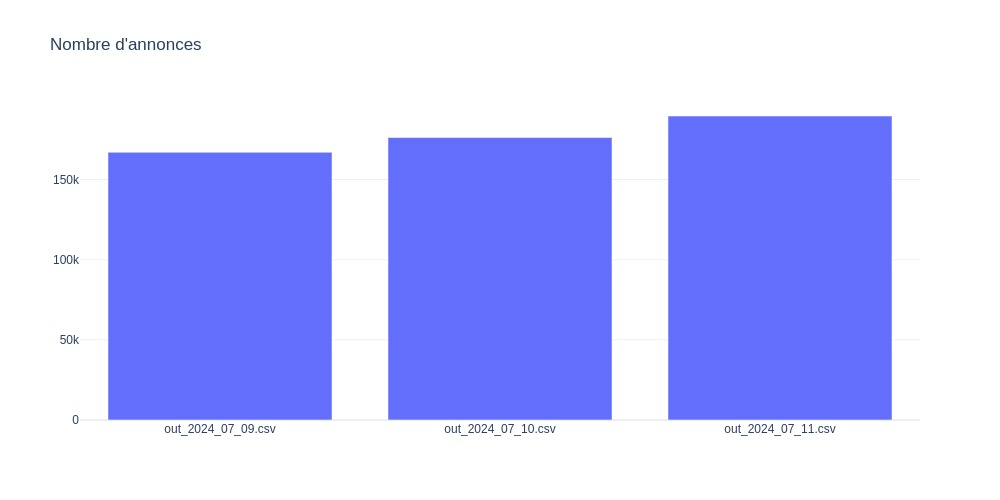
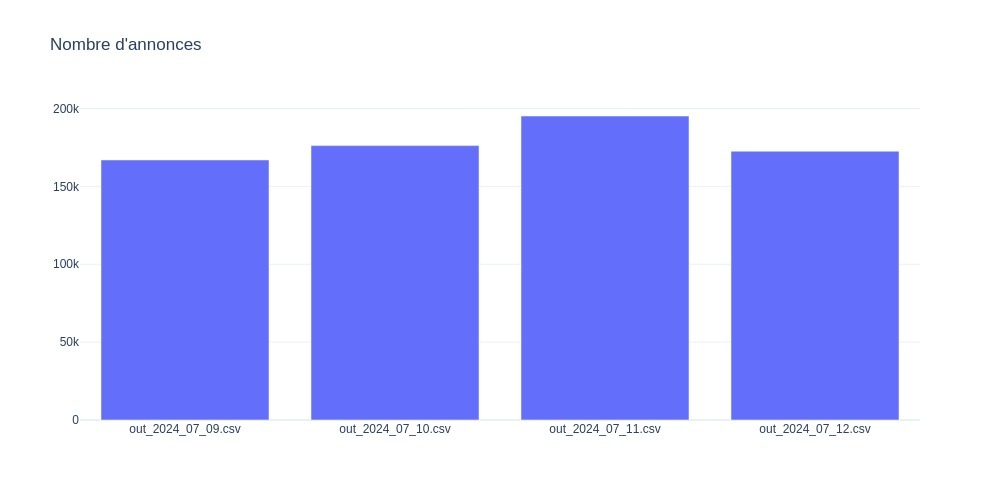
Automatic analytics

Changed region(s): [[0.062, 0.21, 0.899, 0.87], [0.062, 0.21, 0.093, 0.24]]

diff --git a/README.md b/README.md
@@ -3,7 +3,7 @@
 ![image](./out/count_per_day.jpeg)
 
 ## Analyse des dernières données
-Nom du dernier fichier: out_2024_07_11.csv
+Nom du dernier fichier: out_2024_07_12.csv
 ![image](./out/count_per_brand.jpeg)
 ![image](./out/count_per_name.jpeg)
 ![image](./out/avg_price_per_name_desc.jpeg)
@@ -12,53 +12,53 @@ Nom du dernier fichier: out_2024_07_11.csv
 ## Détails des marques
 |Marque|Nombre d'annonces|Prix moyen|Prix max|Prix median|
 |------|-----------------|----------|--------|-----------|
-|audemarspiguet|12510|71703 €|2293229 €|45665 €| 
-|breitling|20032|5709 €|98666 €|4700 €| 
-|cartier|18563|9301 €|1156973 €|6055 €| 
-|hublot|12051|17660 €|543400 €|13990 €| 
-|jaegerlecoultre|6573|12196 €|474356 €|8753 €| 
-|omega|22255|4863 €|279500 €|3733 €| 
-|panerai|7748|9250 €|188430 €|7093 €| 
-|patekphilippe|12739|97421 €|6985422 €|58000 €| 
-|rolex|26176|16110 €|999990 €|12002 €| 
-|seiko|20085|1035 €|162555 €|540 €| 
-|tagheuer|14104|3067 €|63252 €|2383 €| 
-|tissot|6411|681 €|26355 €|519 €| 
-|tudor|10368|4298 €|985000 €|3688 €| 
+|audemarspiguet|11771|64218 €|1905743 €|41453 €| 
+|breitling|19074|5321 €|88317 €|4377 €| 
+|cartier|18044|8500 €|966580 €|5599 €| 
+|hublot|10908|16373 €|543400 €|12905 €| 
+|jaegerlecoultre|6179|11389 €|394303 €|8100 €| 
+|omega|19992|4636 €|279500 €|3573 €| 
+|panerai|7056|8421 €|187909 €|6490 €| 
+|patekphilippe|11820|87091 €|5665587 €|51932 €| 
+|rolex|19773|15828 €|999990 €|12275 €| 
+|seiko|18805|929 €|134999 €|492 €| 
+|tagheuer|13075|2876 €|59900 €|2219 €| 
+|tissot|6312|644 €|26285 €|489 €| 
+|tudor|9792|4044 €|985000 €|3450 €| 
 
 ## Détails des modèles
 Nom du modèle|Nombre d'annonces|Prix moyen|Prix median|
 |-------------|-----------------|----------|-----------|
-|Seiko|4527|701 €|379 €| 
-|Seiko Prospex|3942|1143 €|812 €| 
-|Rolex Datejust 36|3575|8142 €|7269 €| 
-|Patek Philippe Nautilus|2903|160558 €|121201 €| 
-|Rolex Submariner Date|2800|16217 €|14434 €| 
-|Omega Seamaster Diver 300 M|2752|5340 €|4919 €| 
-|Rolex Daytona|2656|41802 €|30757 €| 
-|Rolex GMT-Master II|2608|19170 €|17822 €| 
-|Breitling|2504|6027 €|5130 €| 
-|Audemars Piguet Royal Oak Offshore Chronograph|2442|45209 €|37679 €| 
-|Patek Philippe Calatrava|2433|28780 €|25000 €| 
-|Omega Speedmaster Professional Moonwatch|2347|9269 €|6800 €| 
-|Omega Seamaster|2114|2397 €|1500 €| 
-|Seiko 5 Sports|2093|407 €|340 €| 
-|Hublot Classic Fusion|2061|13042 €|9600 €| 
-|Seiko Presage|2052|837 €|645 €| 
-|Audemars Piguet Royal Oak Chronograph|1993|84907 €|68174 €| 
-|Rolex Datejust 41|1928|12828 €|12989 €| 
-|Cartier Santos|1882|10933 €|7897 €| 
-|Cartier|1682|8879 €|4346 €| 
-|Audemars Piguet Royal Oak|1673|65474 €|47000 €| 
-|TAG Heuer Formula 1 Quartz|1672|1548 €|1511 €| 
-|TAG Heuer Carrera|1636|4940 €|4659 €| 
-|Omega|1604|2592 €|1357 €| 
-|Tudor Black Bay|1511|4042 €|3711 €| 
-|Tissot|1505|809 €|450 €| 
-|Patek Philippe Aquanaut|1479|110263 €|90901 €| 
-|Breitling Navitimer|1466|5843 €|4632 €| 
-|Breitling Chronomat|1445|6771 €|5500 €| 
-|Omega Seamaster Aqua Terra|1442|4833 €|4566 €| 
+|Seiko|4181|645 €|350 €| 
+|Seiko Prospex|3716|1042 €|740 €| 
+|Patek Philippe Nautilus|2691|142271 €|108512 €| 
+|Rolex Datejust 36|2584|7878 €|7086 €| 
+|Omega Seamaster Diver 300 M|2535|5055 €|4650 €| 
+|Breitling|2387|5611 €|4800 €| 
+|Rolex Submariner Date|2335|15604 €|14161 €| 
+|Audemars Piguet Royal Oak Offshore Chronograph|2303|40607 €|34000 €| 
+|Rolex GMT-Master II|2245|18601 €|17587 €| 
+|Patek Philippe Calatrava|2228|25904 €|22493 €| 
+|Omega Speedmaster Professional Moonwatch|2182|8878 €|6515 €| 
+|Rolex Daytona|2010|39594 €|29500 €| 
+|Seiko 5 Sports|2009|370 €|305 €| 
+|Omega Seamaster|1998|2314 €|1458 €| 
+|Seiko Presage|1924|753 €|577 €| 
+|Audemars Piguet Royal Oak Chronograph|1888|75695 €|60000 €| 
+|Hublot Classic Fusion|1849|12350 €|9200 €| 
+|Cartier Santos|1798|10231 €|7308 €| 
+|Cartier|1607|8146 €|3990 €| 
+|Audemars Piguet Royal Oak|1576|57640 €|41696 €| 
+|TAG Heuer Formula 1 Quartz|1574|1476 €|1450 €| 
+|Rolex Datejust 41|1547|12648 €|12888 €| 
+|TAG Heuer Carrera|1526|4660 €|4397 €| 
+|Omega|1474|2491 €|1326 €| 
+|Tissot|1456|774 €|429 €| 
+|Tudor Black Bay|1405|3837 €|3500 €| 
+|Breitling Navitimer|1373|5480 €|4375 €| 
+|Breitling Chronomat|1362|6362 €|4956 €| 
+|Patek Philippe Aquanaut|1354|97434 €|80479 €| 
+|Omega Seamaster Aqua Terra|1285|4630 €|4390 €| 
 
 
- Readme generated on 11/07/2024 15:20:37
+ Readme generated on 12/07/2024 07:35:07
